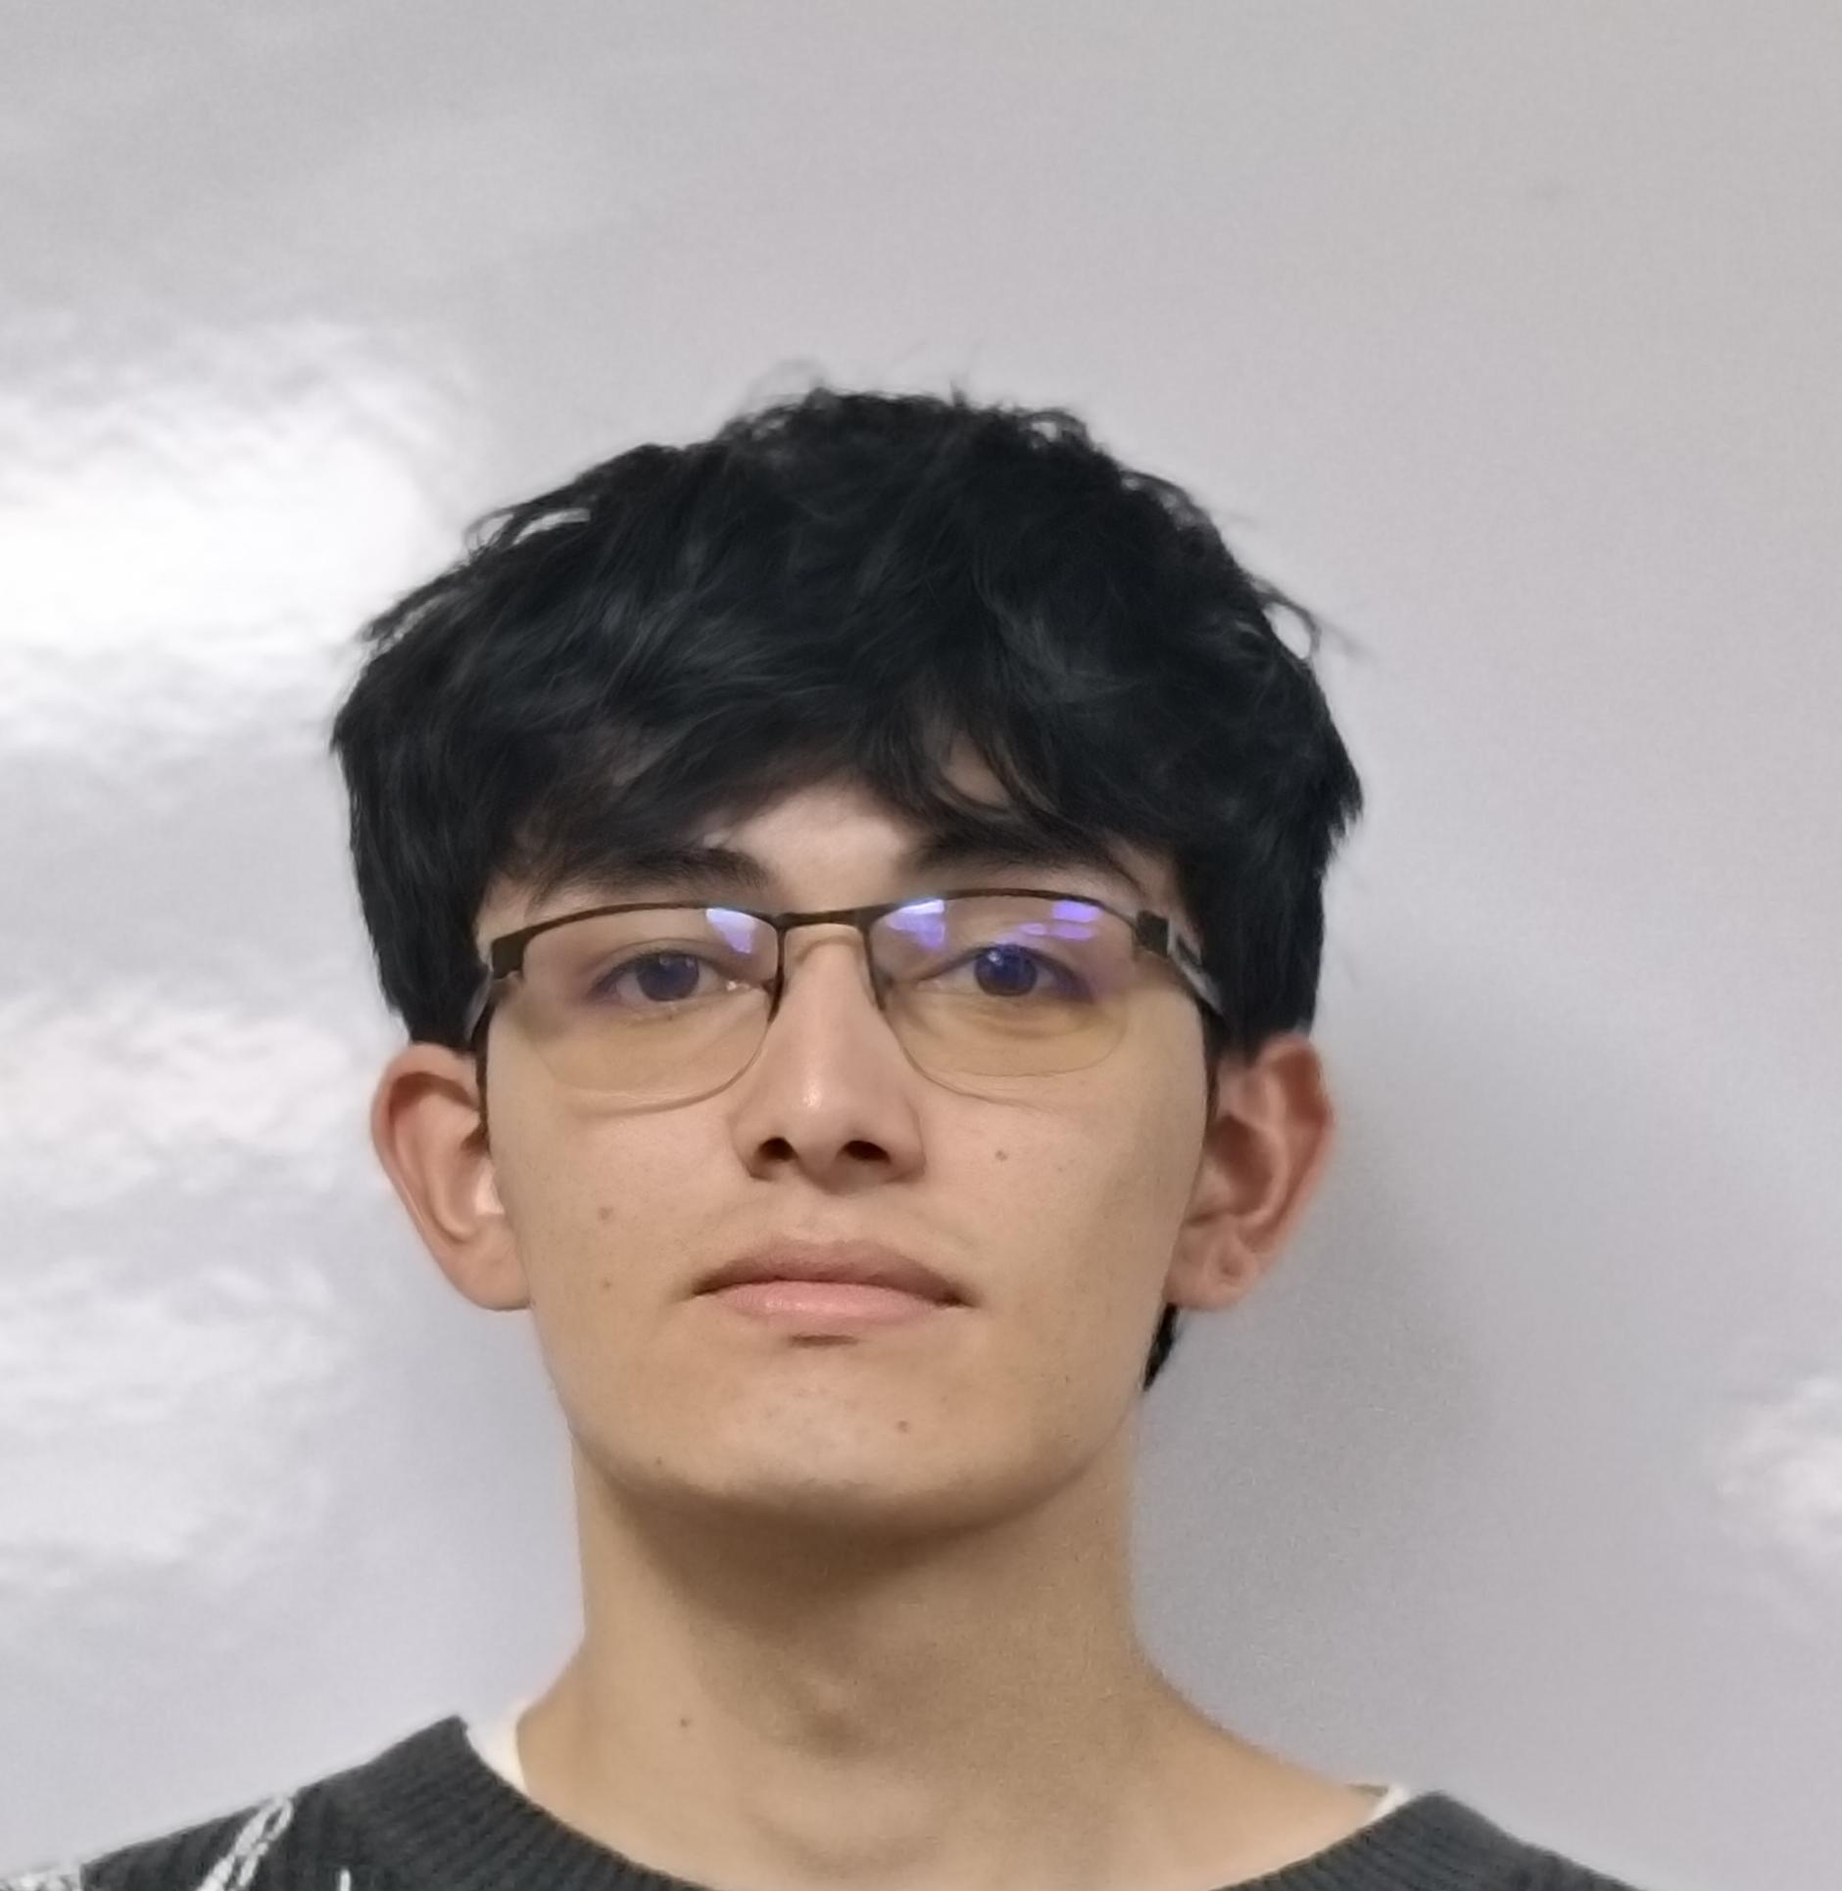
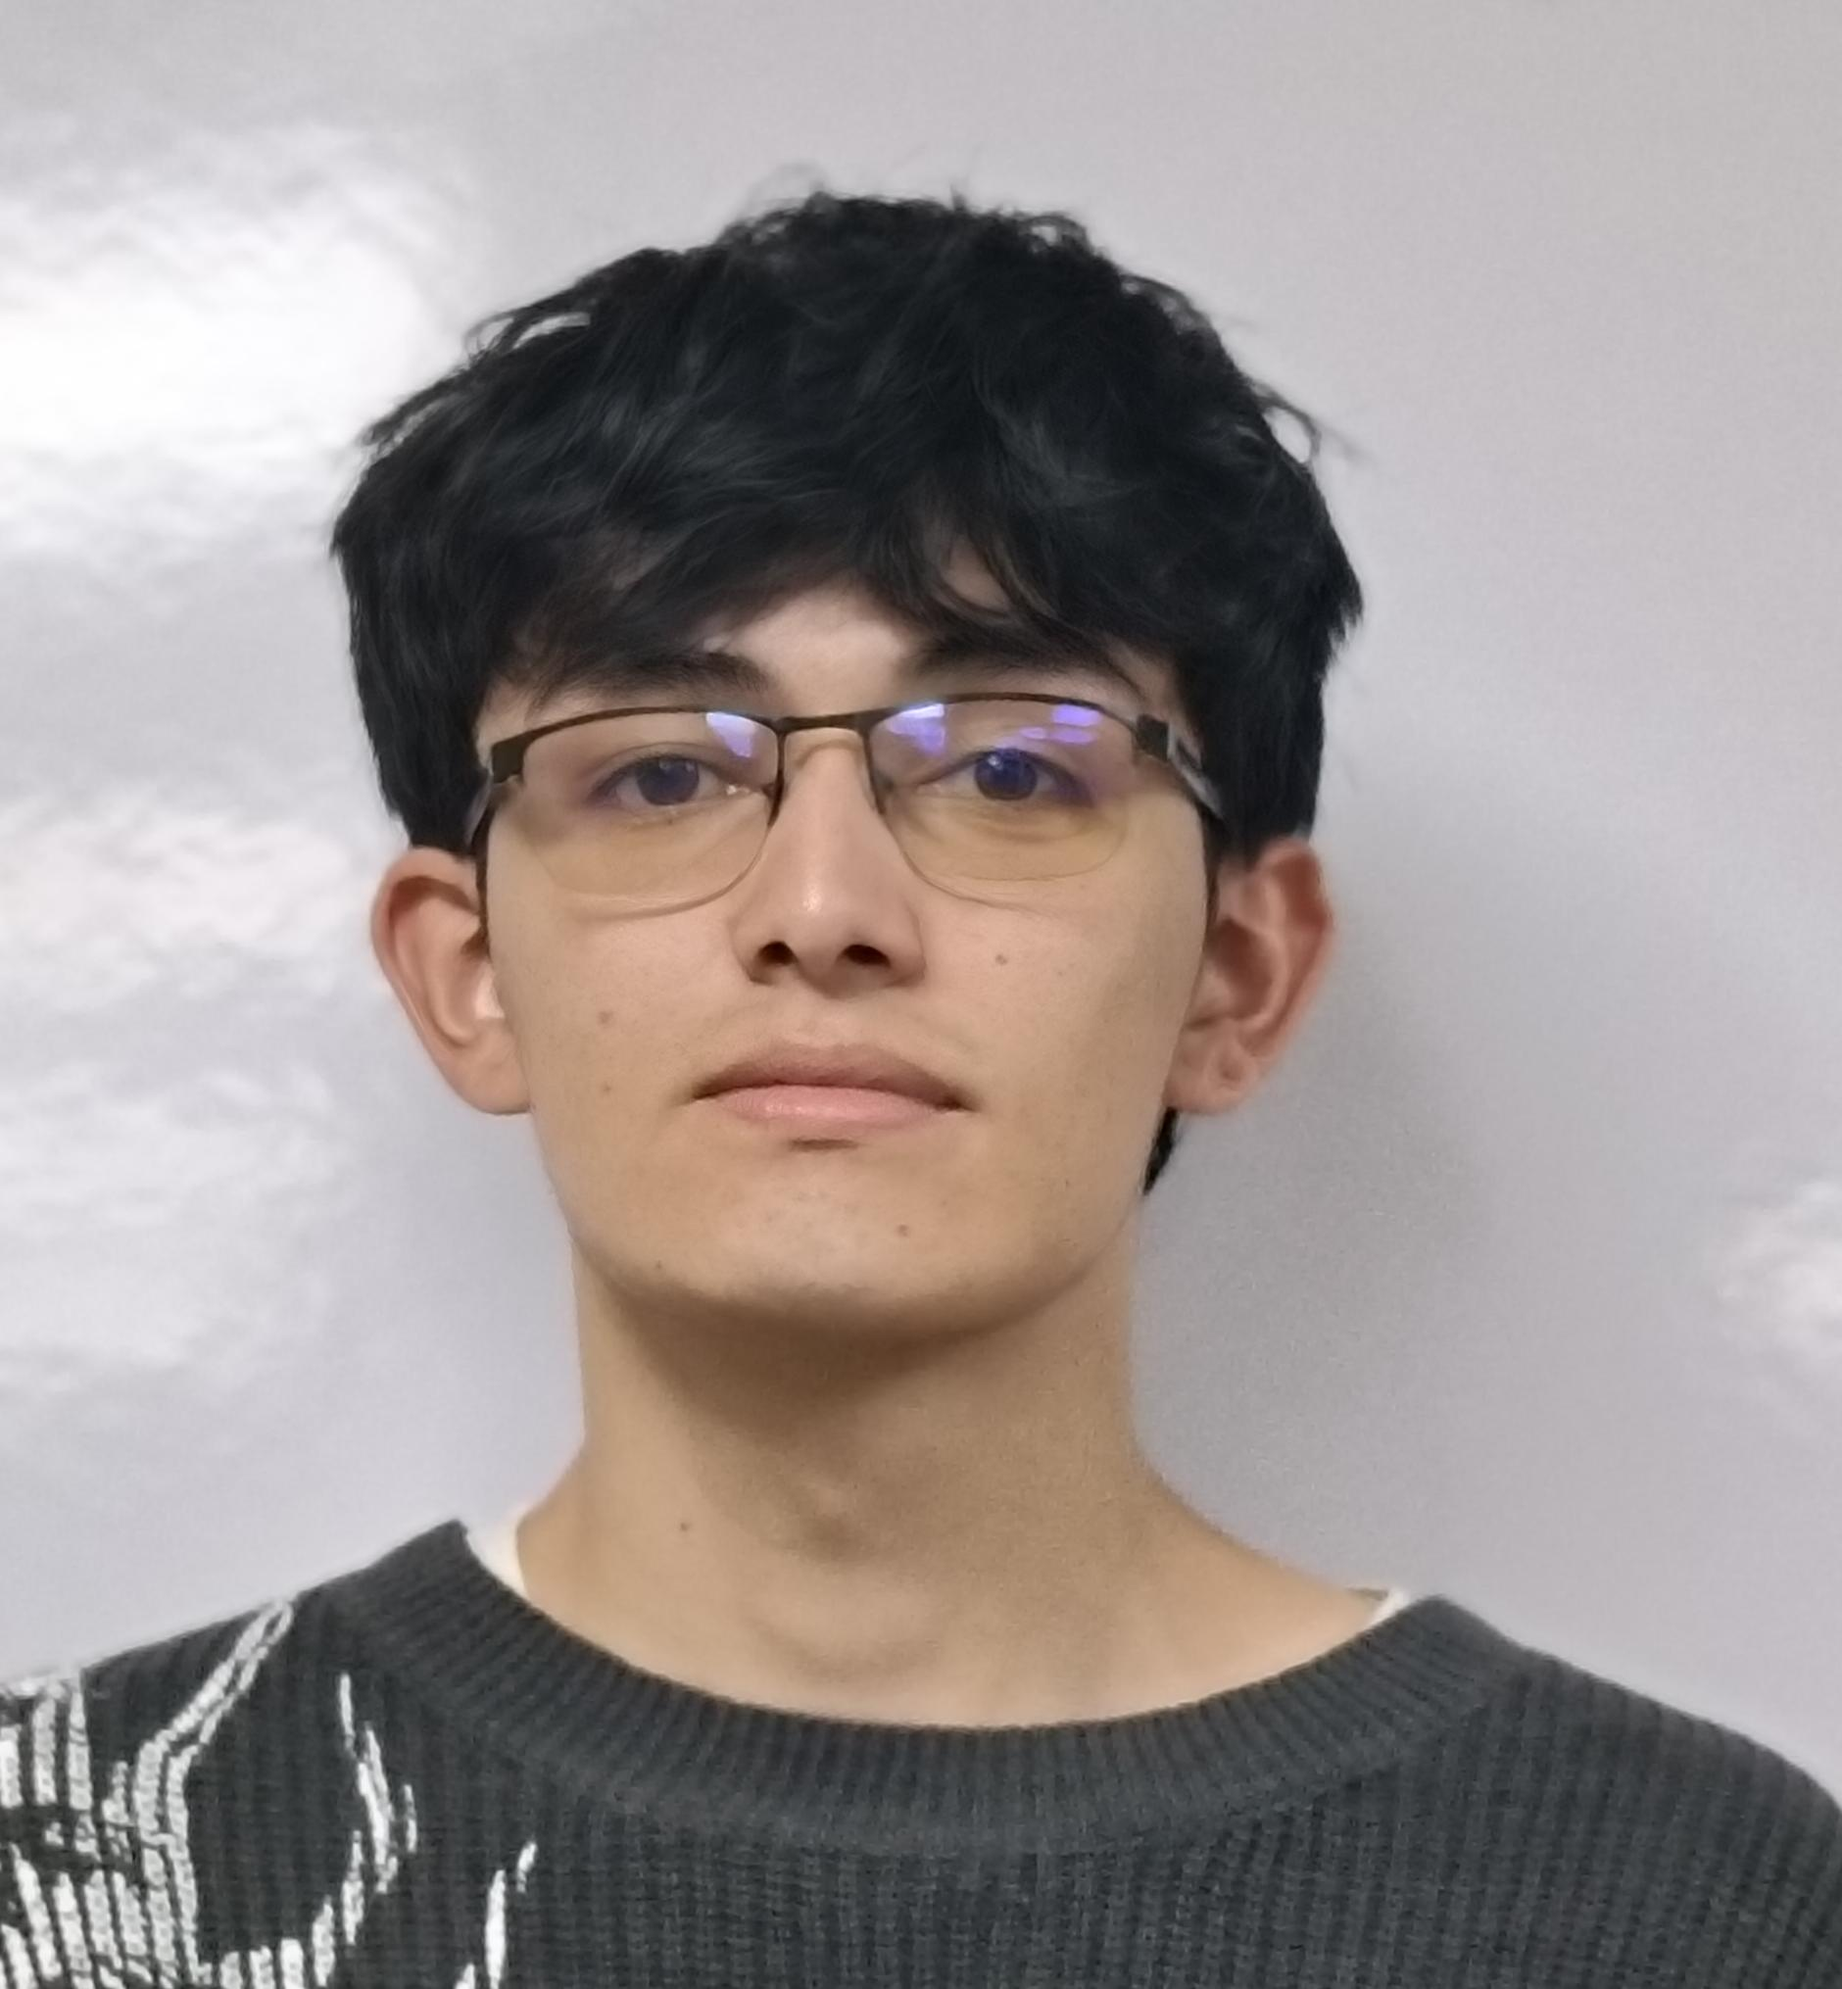
V0.3.1

diff --git a/Proyecto/index.py b/Proyecto/index.py
@@ -3,17 +3,42 @@ import Back.recorte_imagen as rec
 import Back.preparacion_imagenes as prep
 
 
-ruta = ("./Proyecto/Recursos/Imagenes_entrenamiento/")
+ruta = "./Proyecto/Recursos/Imagenes_entrenamiento/"
+ruta_rec = "./Proyecto/Recursos/imagenes_entr_recortadas/"
 
 array_nombres = imagenes.obtener_nombres_jpg(ruta)
 imagenes_preparadas = []
 
 
+def img_prep(array_nombres, ruta):
+    for i in range(len(array_nombres)):
+        ruta_img = ruta + array_nombres[i]
+        rec.recorte(ruta_img, array_nombres[i])
+    return print("fin")
+
+
+
+ciclo = True
+
+while ciclo == True:
+    print("Seleccione una opción:")
+    print("1. Recortar imágenes")
+    print("2. Salir")
+    opcion = input("Ingrese el número de la opción deseada: ")
+    match opcion:
+        case "1":
+            img_prep(array_nombres, ruta)
+            ciclo = False
+        case "2":
+            ciclo = False
+        case _:
+            print("Ingrese un valor valido")
+            input()
+
 #print(array_nombres)
 for i in range(len(array_nombres)):
-    ruta_img = ruta + array_nombres[i]
-    rec.recorte(ruta_img, array_nombres[i])
-    imagen_preparada = prep.preparacion_img(ruta_img, array_nombres[i])
+    ruta_img = ruta_rec + array_nombres[i]
+    imagen_preparada = prep.preparacion_img(ruta_img)
     imagenes_preparadas.append(imagen_preparada)
     
 print(imagenes_preparadas[0])

diff --git a/Proyecto/Back/recorte_imagen.py b/Proyecto/Back/recorte_imagen.py
@@ -5,14 +5,14 @@ def recorte(ruta, array):
     # 1. Cargar la imagen original
     imagen = Image.open(ruta)
     texto = str(array)
-    resta = 100
+    resta = 300
     resta2 = 200
 
     # 2. Definir las coordenadas del cuadro: (izquierda, arriba, derecha, abajo)
     # Ejemplo: recortar un cuadro de 300x300 desde la posición (100, 50)
    
     izquierda = 846 - resta2
-    arriba = 761 - resta
+    arriba = 861 
 
     #izquierda = 846 - resta2
     #arriba = 761 - resta
@@ -22,7 +22,7 @@ def recorte(ruta, array):
     
     
     derecha = 2526
-    abajo = 2591
+    abajo = 2591 + resta
     
     
 

diff --git a/Proyecto/Back/preparacion_imagenes.py b/Proyecto/Back/preparacion_imagenes.py
@@ -2,7 +2,7 @@ import cv2
 import numpy as np
 
 
-def preparacion_img(imagen_a_Procesar, nombres):
+def preparacion_img(imagen_a_Procesar):
     imagen_origin = cv2.imread(imagen_a_Procesar)
     if imagen_origin is None:
         print("Imagenes no encontradas")
